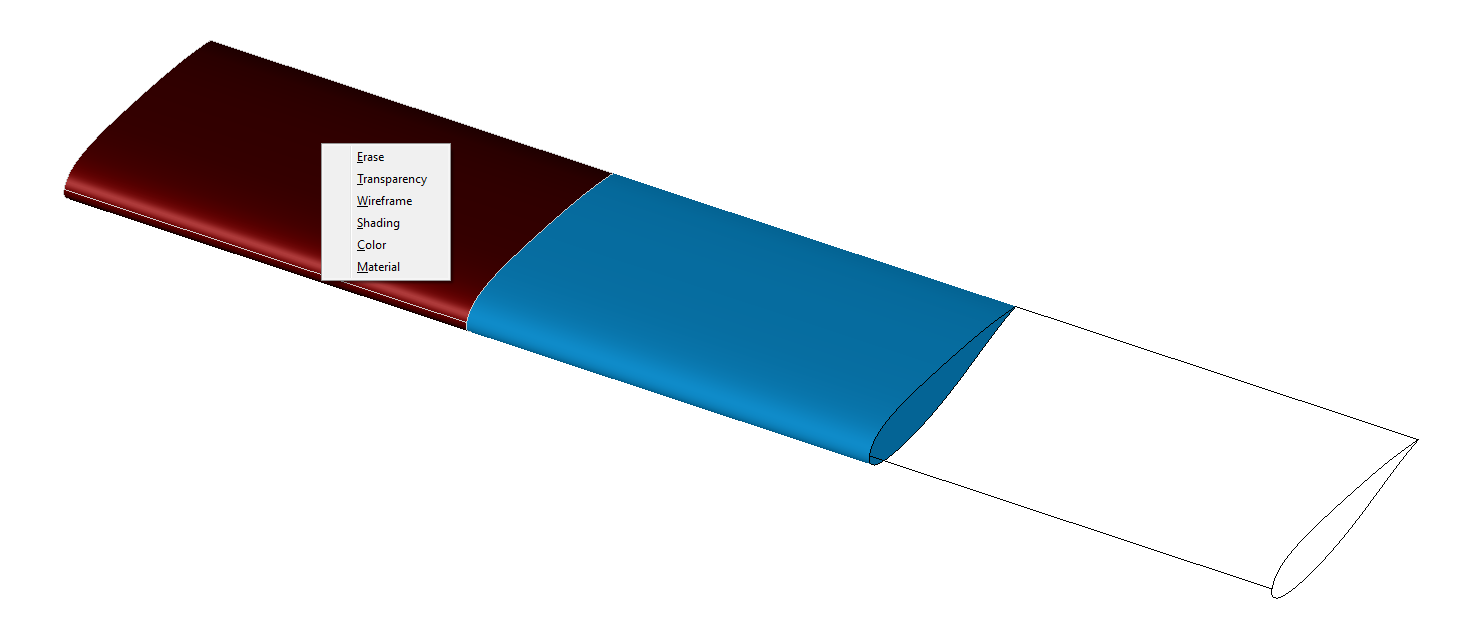
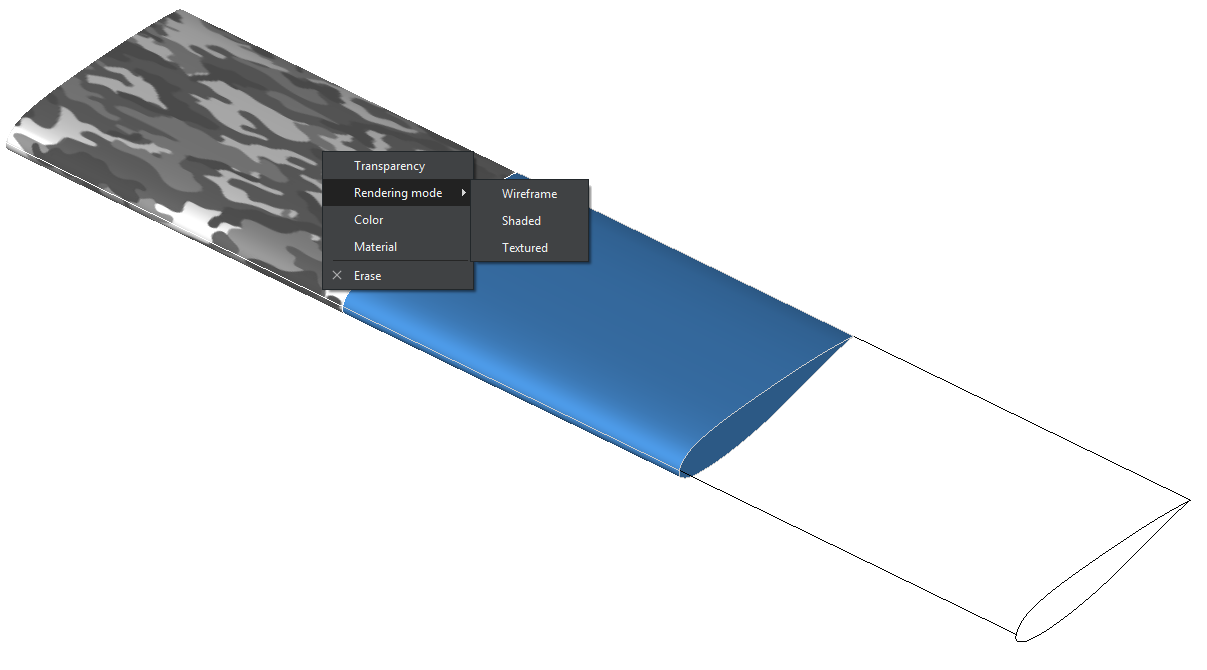
Changed more images to new design
Closes #336

diff --git a/doc/tiglviewer.md b/doc/tiglviewer.md
@@ -112,8 +112,8 @@ select the objects of interest and __press the right mouse button__ inside the 3
  * Setting the object color and transparency
  * Toggle between wireframe and shading rendering
  
-@image html images/tiglviewer-shading-web.jpg "Different shading settings (glossy red, plastic blue, wireframe)"
-@image latex images/tiglviewer-shading.png  "Different shading settings (glossy red, plastic blue, wireframe)" width=12cm
+@image html images/tiglviewer-shading-web.jpg "Different shading settings (textured, plastic blue, wireframe)"
+@image latex images/tiglviewer-shading.png  "Different shading settings (textured, plastic blue, wireframe)" width=12cm
 
 @section mobile Mobile platforms
 
